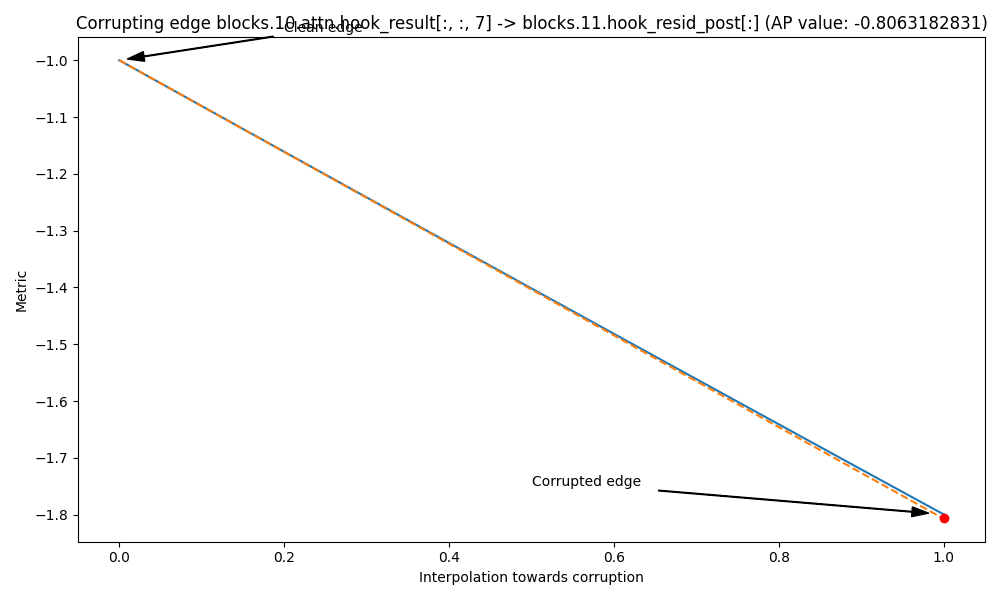
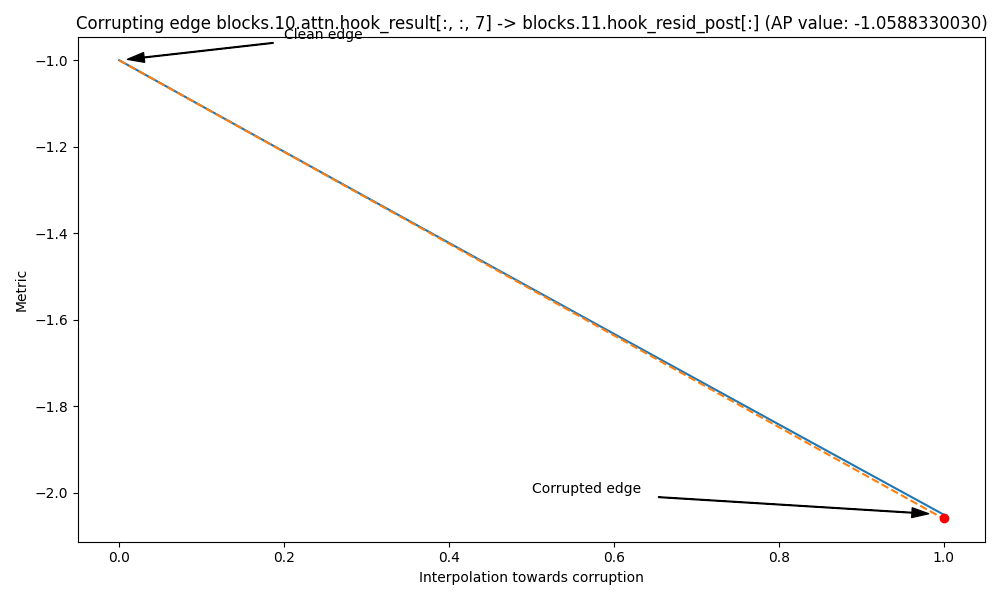
Ignore all these damn images, we fixed the problem with hook_v_input -> hook_v

diff --git a/docstring_task/study_ap_approx.py b/docstring_task/study_ap_approx.py
@@ -120,12 +120,13 @@ print(f'Clean metric: {clean_metric}, Corrupt metric: {corrupt_metric}')
 
 threshold_dummy = -100.0 # Does not make a difference when only running edge based attribution patching, as all attributions are saved in the result dict anyways
 RUN_NAME = 'greaterthan_edge_absval'
+model.reset_hooks()
 acdcpp_exp = ACDCPPExperiment(
     model,
     clean_dataset.toks,
     corr_dataset.toks,
-    negative_abs_ioi_metric,
-    negative_abs_ioi_metric,
+    negative_ioi_metric,
+    negative_ioi_metric,
     [threshold_dummy],
     run_name=RUN_NAME,
     verbose=False,
@@ -143,7 +144,7 @@ sorted_ap_attr = sorted(attr_results.items(), key=lambda x: abs(x[1]), reverse=T
 
 #%%
 
-for idx in range(20):
+for idx in range(2, 5):
     (sender_component, receiver_component), ap_val = sorted_ap_attr[idx]
     print(
         f"Sender component: {sender_component}, receiver component: {receiver_component}, ap_val: {ap_val}"
@@ -155,13 +156,23 @@ for idx in range(20):
     original_corrupted_cache_value_cpu = acdc_exp.global_cache.corrupted_cache[sender_node_name][sender_node_index.as_index].cpu()
     original_online_cache_value_cpu = acdc_exp.global_cache.online_cache[sender_node_name][sender_node_index.as_index].cpu()
 
+    acdc_exp.update_cur_metric()
     original_metric = acdc_exp.cur_metric
     original_edges = acdc_exp.count_no_edges()
 
-    acdc_exp.add_receiver_hook(acdc_exp.corr.graph[receiver_node_name][receiver_node_index], override=True, prepend=True)
-
     edge=acdc_exp.corr.edges[receiver_node_name][receiver_node_index][sender_node_name][sender_node_index]
     edge.mask = 1.0
+    
+    if "addition" in str(edge.edge_type).lower():
+        ret = acdc_exp.add_receiver_hook(acdc_exp.corr.graph[receiver_node_name][receiver_node_index], override=False, prepend=True)
+    elif "direct" in str(edge.edge_type).lower():
+        ret = acdc_exp.add_receiver_hook(acdc_exp.corr.graph[receiver_node_name][receiver_node_index], override=True, prepend=True)
+        added_sender_hook = acdc_exp.add_sender_hook(acdc_exp.corr.graph[receiver_node_name][receiver_node_index], override=True)
+    else:
+        raise ValueError(f"Unknown edge type: {edge.edge_type}")
+
+    if not ret: 
+        print("Warning, hook already exists" + str(edge.edge_type))
 
     acdc_exp.update_cur_metric()
     new_metric = acdc_exp.cur_metric
@@ -172,7 +183,6 @@ for idx in range(20):
 
     interpolated_metrics = []
     for interpolation in torch.linspace(0, 1, 101):
-        # acdc_exp.global_cache.corrupted_cache[sender_node_name][sender_node_index.as_index] = (interpolation * original_corrupted_cache_value_cpu + (-interpolation+1.0) * original_online_cache_value_cpu).to(device)
         edge.mask = interpolation
         acdc_exp.update_cur_metric()
         intermediate_metric = acdc_exp.cur_metric
